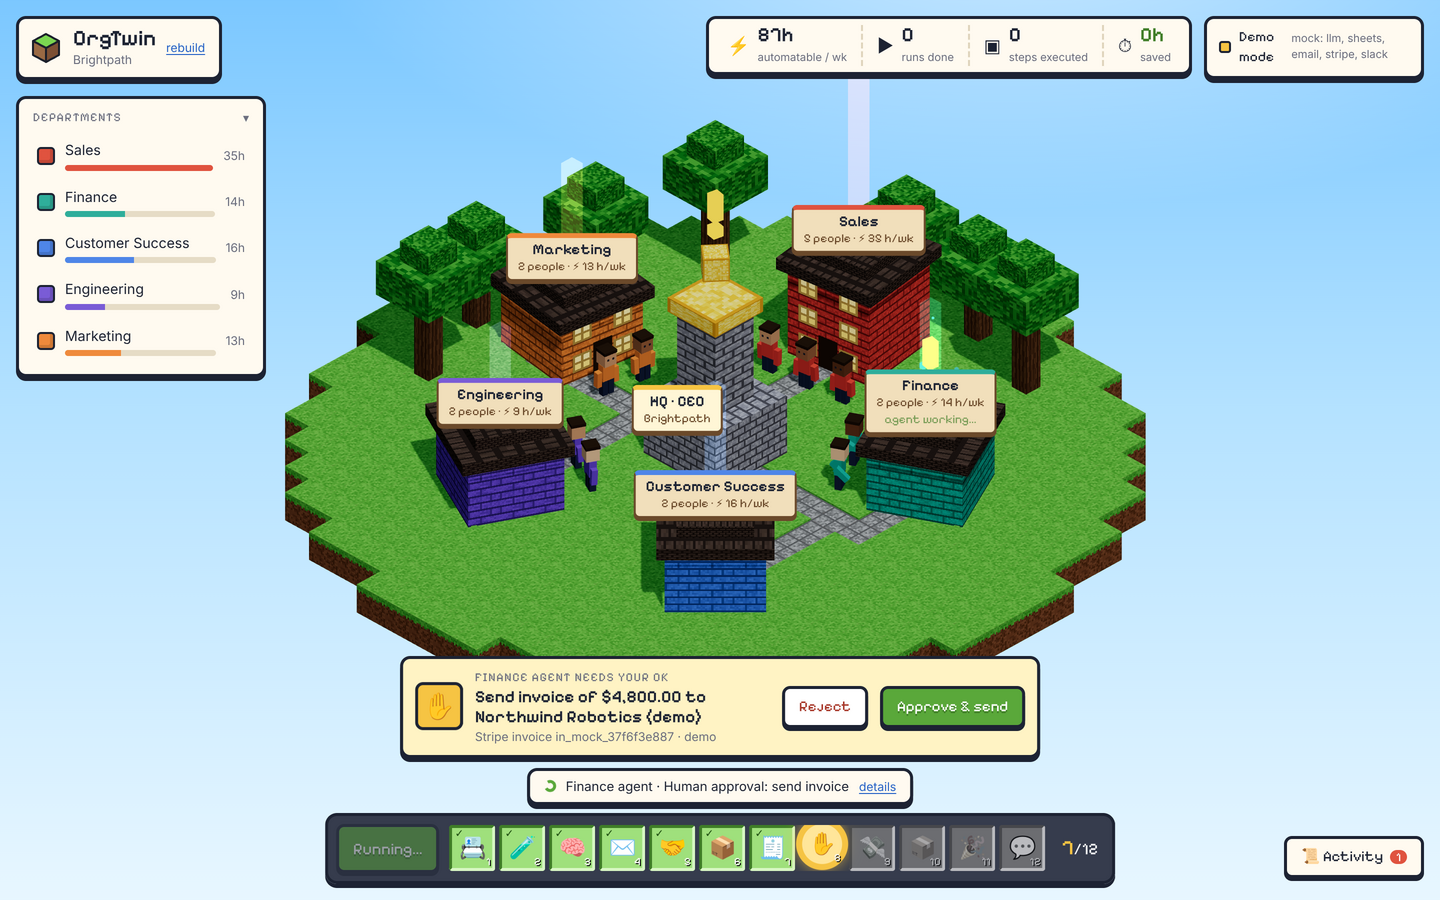
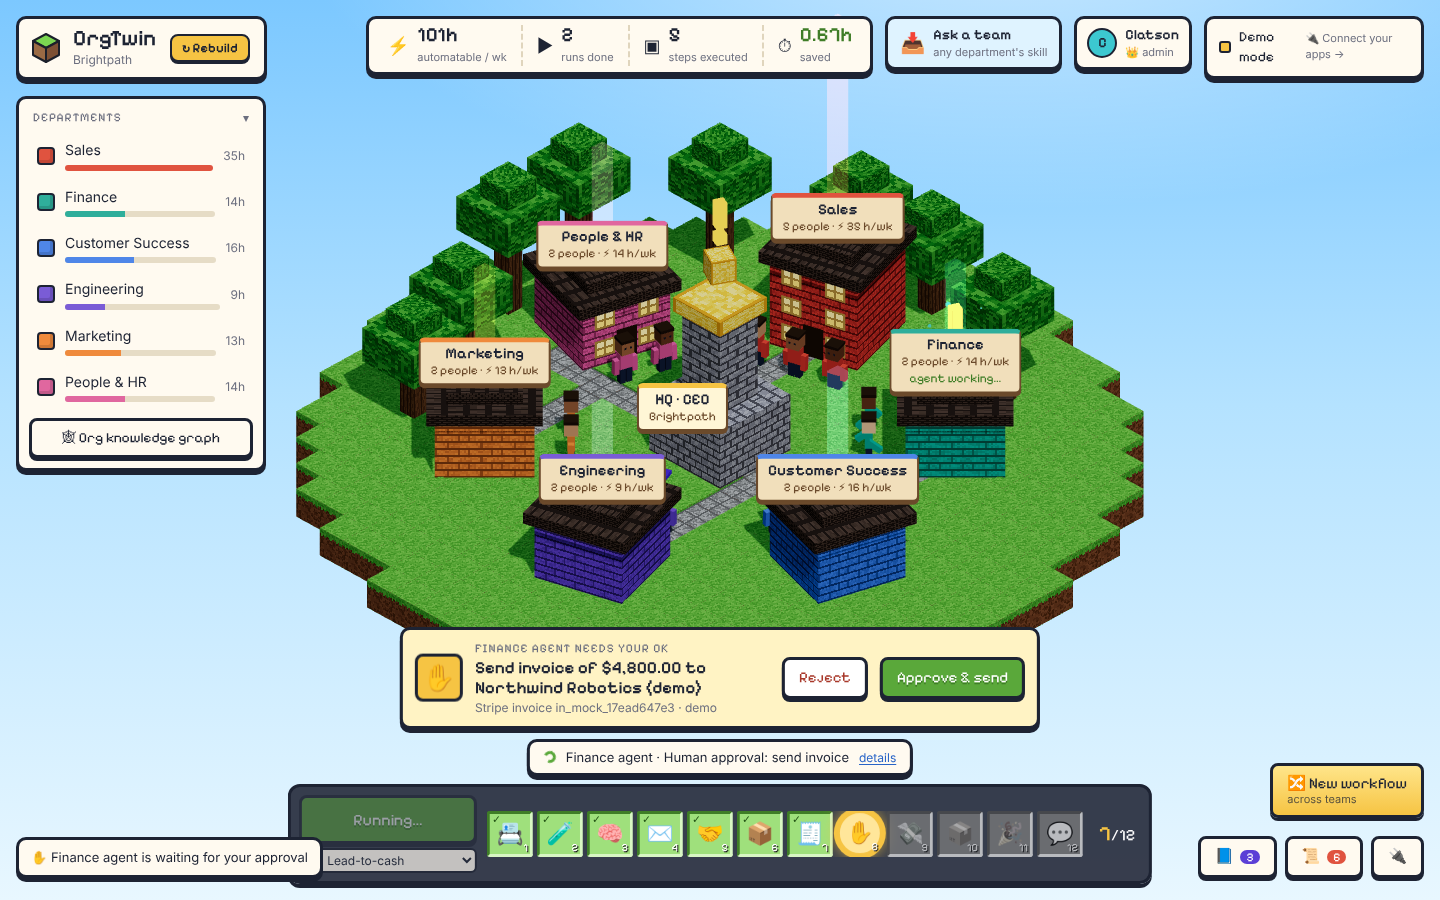
docs: new screenshots (people & quests, Ask a team, skill tools, Connect)
- Refreshed world, live run, approval and team view: the top bar now shows
  Ask a team and who is signed in.
- New: quests.png, departments.png (green ticks), ask-team.png (a Sales
  request answered by an Engineering skill, owners pinged), skill-tools.png
  (Slack, web search and an MCP server granted), connect.png (Google popup).
- Added to the README, docs/people.md and docs/connectors.md.

Claude-Session: https://claude.ai/code/session_01EgqpD7UvKjVAckQFrBV1AD

diff --git a/README.md b/README.md
@@ -14,7 +14,7 @@ team's skill, returns the answer, and pings the IT people on Slack / Discord.
 
 ![OrgTwin world: each department is a building, each role a worker agent, beacons show automatable hours](docs/images/world.png)
 
-![Live run: the Sales agent hands an invoice task to Finance as a crate; the hotbar tracks the 12 steps](docs/images/live-run.png)
+![Live run: the Sales agent hands the invoice task to Finance; the hotbar tracks the 12 steps](docs/images/live-run.png)
 
 One workflow runs **for real, end to end, across three departments: lead-to-cash.**
 
@@ -54,6 +54,8 @@ Sales (Sam) ── "I need an analysis of …" ──▶ OrgTwin picks the best 
                      result → Sam in the app · 💬 Slack / 🎮 Discord → IT's people (@mentioned)
 ```
 
+![Ask a team: Sam from Sales asked two things; Engineering's skills answered and Ivan was pinged on Slack and Discord](docs/images/ask-team.png)
+
 - **👑 Admin + departments.** The first person becomes admin and invites the rest with a personal link,
   ticking the departments each person looks after (green ticks). People create and edit skills only in their
   own departments. Everyone can see and run every skill.
@@ -68,6 +70,12 @@ Sales (Sam) ── "I need an analysis of …" ──▶ OrgTwin picks the best 
   review (comment or request changes; an agent never approves), comment, open issues, and open a PR that
   changes one file. Typical skill: `github/read_pr` → `llm/write` ("review {{pr}}") → `github/review_pr`.
 - **🗺 Quests.** A 9-step setup checklist in 👥 People that ticks itself green as you go.
+
+![People & quests: the setup checklist ticks itself green](docs/images/quests.png)
+
+![Departments: green ticks show where each person can create and edit skills](docs/images/departments.png)
+
+![Skill tools: this skill may use Slack, web search and every tool of the Helpdesk MCP server](docs/images/skill-tools.png)
 
 | | Admin | Member |
 |---|---|---|
@@ -198,6 +206,8 @@ popups, the admin registers OrgTwin once with each service (`GOOGLE_OAUTH_*`, `S
 `NOTION_OAUTH_*`, `SLACK_CLIENT_*`, `DISCORD_CLIENT_*`, `HUBSPOT_CLIENT_*`, `GITHUB_CLIENT_*`, `TELEGRAM_BOT_TOKEN`). The steps are in
 [docs/connectors.md](docs/connectors.md#one-click-sign-in-the-admins-one-time-setup). Teams, webhooks and web search open a
 short form in the app. Everything in the table below can still be set in `.env` instead.
+
+![Connect Google Sheets: sign in with Google and click Allow, no keys to copy](docs/images/connect.png)
 
 | Variable | Where to get it |
 |---|---|

diff --git a/docs/people.md b/docs/people.md
@@ -2,6 +2,8 @@
 
 ## People and access
 
+![Departments with green ticks](images/departments.png)
+
 Until someone becomes admin, OrgTwin is one shared workspace (optionally behind `APP_ACCESS_TOKEN`).
 Click the **👑 Set up admin** chip in the top bar (or **👥 People**) and enter your name: you are the admin.
 From then on every change needs a signed-in person.
@@ -24,6 +26,8 @@ claim the first admin.
 
 ## Requests: "I need an analysis of …"
 
+![Ask a team](images/ask-team.png)
+
 **📥 Ask a team** (top bar). Someone in Sales writes what they need. OrgTwin:
 
 1. picks the skill that fits best in **any** department. It asks the AI to choose; with no AI or no clear
@@ -40,6 +44,8 @@ one run), so a request waits its turn. Approval steps in the skill go to the own
 
 ## Skill tools and MCP
 
+![Skill tools](images/skill-tools.png)
+
 Every skill has **🧰 Tools**. Tick the apps (GitHub, Notion, Slack, web search, …) and MCP servers, or single MCP
 tools, that it may use.
 
@@ -53,6 +59,14 @@ tools, that it may use.
   and an optional bearer token. The token is never sent back to the browser. OrgTwin lists the server's tools
   (`tools/list`) and calls them with `tools/call`. Private or LAN addresses are refused unless
   `MCP_ALLOW_PRIVATE=true` (for a server on your own machine).
+
+## Quests
+
+![Quests](images/quests.png)
+
+👥 People shows a 9-step setup checklist that ticks itself green: build the company, become admin, connect an
+app, invite a teammate, give someone a department, create a skill, give a skill tools, send a cross-team request,
+and have an owner notified in Slack / Discord.
 
 ## API
 

diff --git a/docs/connectors.md b/docs/connectors.md
@@ -7,6 +7,8 @@ it is connected. In demo mode it records what it *would* have sent, which shows 
 
 Open **🔌 Connectors** (or click **Demo mode** in the top bar) and press **Connect** on any connector.
 
+![Connect Google Sheets](images/connect.png)
+
 - **Google Sheets + Gmail, Stripe, Notion, Slack, Discord and HubSpot** open that service's own sign-in popup.
   The user signs in and clicks **Allow**; Slack and Discord show a channel picker on that same screen, and
   Notion lets the user tick the pages to share. After Notion, the user picks a database (or OrgTwin creates
